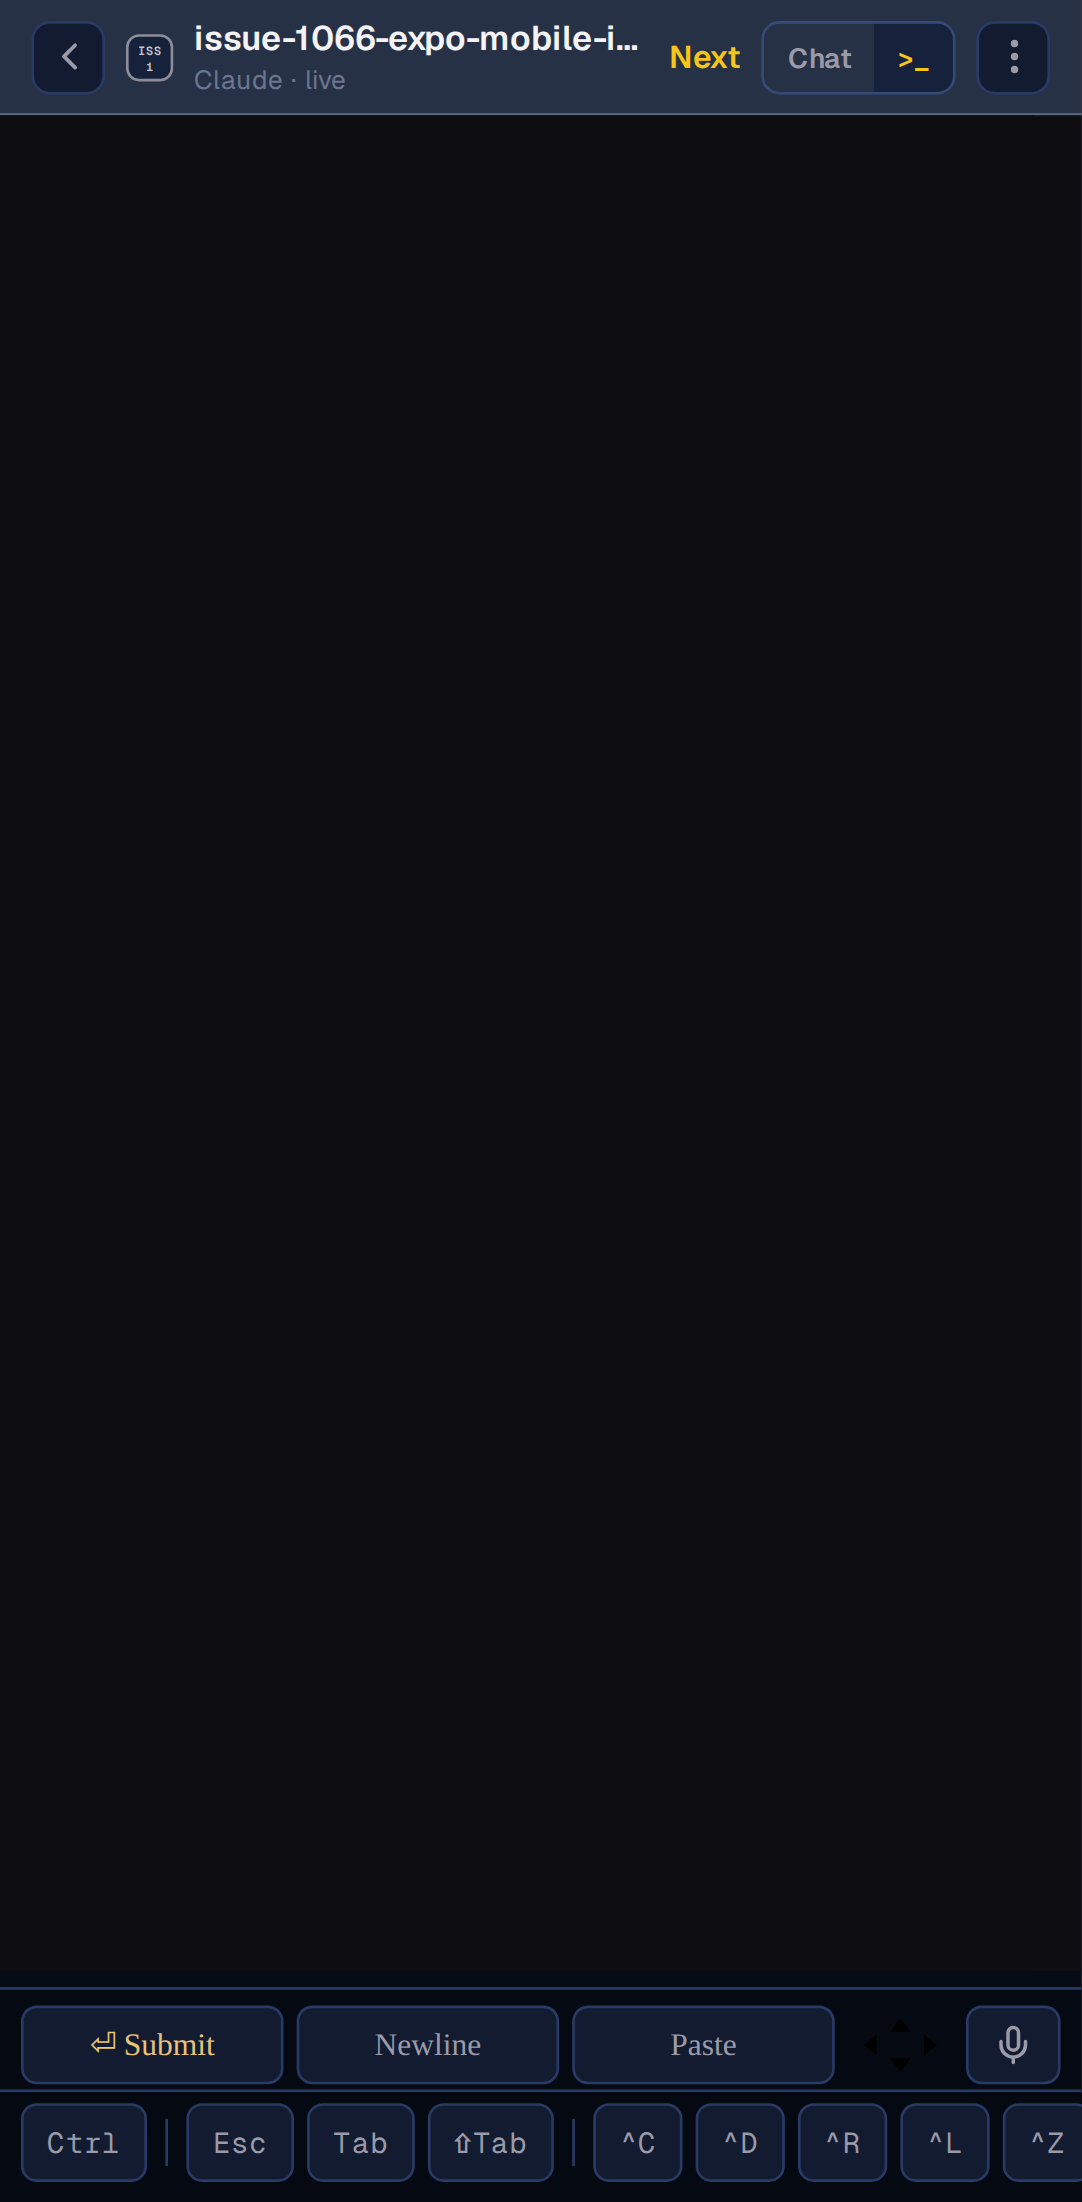
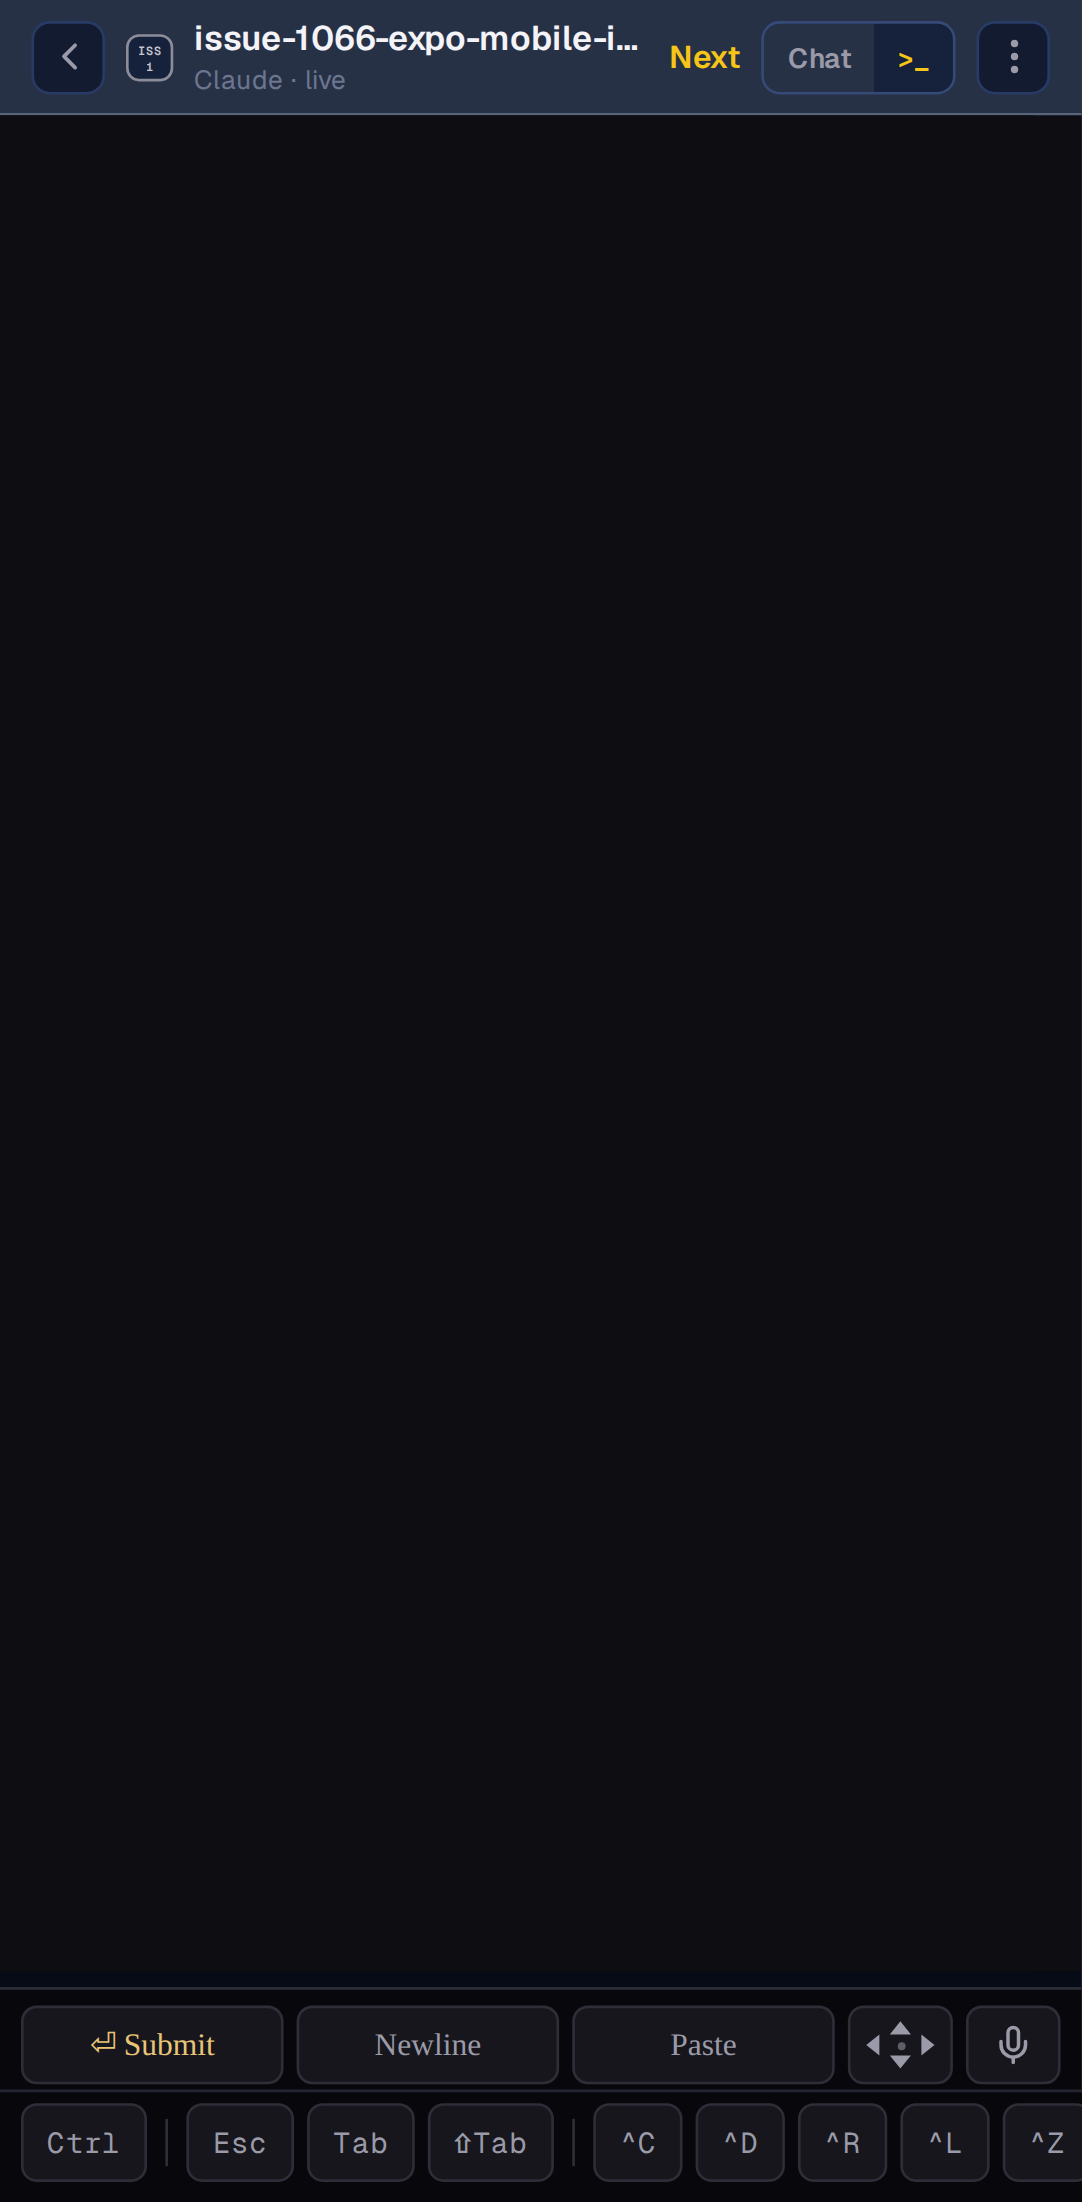
Restore historical mobile keyboard design

diff --git a/packages/terminal-client-react/src/mobile-terminal-keyboard.tsx b/packages/terminal-client-react/src/mobile-terminal-keyboard.tsx
@@ -8,6 +8,9 @@ export interface MobileTerminalKeyboardTheme {
   bar: string
   card: string
   border: string
+  secondary: string
+  hairlineSoft: string
+  hairlineBar: string
   muted: string
   accent: string
   onAccent: string
@@ -48,6 +51,9 @@ export function MobileTerminalKeyboard({
         '--mtk-bar': theme.bar,
         '--mtk-card': theme.card,
         '--mtk-border': theme.border,
+        '--mtk-secondary': theme.secondary,
+        '--mtk-hairline-soft': theme.hairlineSoft,
+        '--mtk-hairline-bar': theme.hairlineBar,
         '--mtk-muted': theme.muted,
         '--mtk-accent': theme.accent,
         '--mtk-on-accent': theme.onAccent,
@@ -94,7 +100,21 @@ export function MobileTerminalKeyboard({
         >
           Paste
         </button>
-        <ArrowSwipeKey onFire={sendKey} />
+        <ArrowSwipeKey
+          onFire={sendKey}
+          theme={
+            theme
+              ? {
+                  card: theme.card,
+                  secondary: theme.secondary,
+                  hairlineBar: theme.hairlineBar,
+                  muted: theme.muted,
+                  primary: theme.accent,
+                  border: theme.border,
+                }
+              : undefined
+          }
+        />
         {voice.supported ? (
           <button
             data-pressable
@@ -137,7 +157,7 @@ const MOBILE_TERMINAL_KEYBOARD_CSS = `
 .mobile-terminal-keyboard .toolbar {
   display: flex; flex-shrink: 0; align-items: center; gap: 5px;
   padding: 4px 8px calc(8px + (1 - var(--kb-open, 0)) * env(safe-area-inset-bottom, 0px));
-  background: var(--mtk-bar, var(--bar)); border-top: 1px solid var(--mtk-border, var(--hairline-soft));
+  background: var(--mtk-bar, var(--bar)); border-top: 1px solid var(--mtk-hairline-soft, var(--hairline-soft));
   overflow-x: auto; overflow-y: hidden; -webkit-overflow-scrolling: touch;
   overscroll-behavior: contain; touch-action: pan-x; scrollbar-width: none;
 }
@@ -145,7 +165,7 @@ const MOBILE_TERMINAL_KEYBOARD_CSS = `
 .mobile-terminal-keyboard .toolbar .key {
   flex: 0 0 auto; min-width: 32px; height: 30px; padding: 0 9px;
   display: inline-flex; align-items: center; justify-content: center;
-  background: var(--mtk-card, var(--card)); border: 1px solid var(--mtk-border, var(--hairline-bar));
+  background: var(--mtk-card, var(--card)); border: 1px solid var(--mtk-hairline-bar, var(--hairline-bar));
   border-radius: 6px; color: var(--mtk-muted, var(--muted-foreground));
   font: 11px / 1 var(--mtk-font, var(--font-mono, ui-monospace, monospace));
   font-variant-numeric: tabular-nums; cursor: pointer; user-select: none;
@@ -159,11 +179,11 @@ const MOBILE_TERMINAL_KEYBOARD_CSS = `
 }
 .mobile-terminal-keyboard .toolbar .key-sep {
   flex: 0 0 auto; align-self: center; width: 1px; height: 18px; margin: 0 2px;
-  background: var(--mtk-border, var(--hairline-bar));
+  background: var(--mtk-hairline-bar, var(--hairline-bar));
 }
 .mobile-terminal-keyboard .key-actions {
   display: flex; flex-shrink: 0; align-items: center; gap: 5px; padding: 6px 8px 2px;
-  background: var(--mtk-bar, var(--bar)); border-top: 1px solid var(--mtk-border, var(--hairline-bar));
+  background: var(--mtk-bar, var(--bar)); border-top: 1px solid var(--mtk-hairline-bar, var(--hairline-bar));
 }
 .mobile-terminal-keyboard .key-actions:not(:has(.key-mic)) { padding-right: 48px; }
 .mobile-terminal-keyboard .key-actions.kb-hidden,
@@ -171,7 +191,7 @@ const MOBILE_TERMINAL_KEYBOARD_CSS = `
 .mobile-terminal-keyboard .key-act {
   flex: 1 1 0; min-width: 0; height: 30px; display: inline-flex;
   align-items: center; justify-content: center; background: var(--mtk-card, var(--card));
-  border: 1px solid var(--mtk-border, var(--hairline-bar)); border-radius: 6px;
+  border: 1px solid var(--mtk-hairline-bar, var(--hairline-bar)); border-radius: 6px;
   color: var(--mtk-muted, var(--muted-foreground)); font: inherit; font-size: 12px;
   cursor: pointer; user-select: none; -webkit-user-select: none;
   -webkit-tap-highlight-color: transparent; touch-action: manipulation;
@@ -184,7 +204,7 @@ const MOBILE_TERMINAL_KEYBOARD_CSS = `
 .mobile-terminal-keyboard .key-mic {
   flex: 0 0 auto; width: 36px; height: 30px; display: inline-flex;
   align-items: center; justify-content: center; background: var(--mtk-card, var(--card));
-  border: 1px solid var(--mtk-border, var(--hairline-bar)); border-radius: 6px;
+  border: 1px solid var(--mtk-hairline-bar, var(--hairline-bar)); border-radius: 6px;
   color: var(--mtk-muted, var(--muted-foreground)); cursor: pointer;
   -webkit-tap-highlight-color: transparent;
 }

diff --git a/tests/e2e/browser/expo-mobile-parity.browser.e2e.ts b/tests/e2e/browser/expo-mobile-parity.browser.e2e.ts
@@ -11,6 +11,13 @@ test.setTimeout(180_000)
 
 const ARTIFACTS = resolve(import.meta.dirname, '../../../.artifacts/POD-1066')
 
+async function eventCount(page: import('@playwright/test').Page): Promise<number> {
+  const match = (await screenText(page)).match(/events=(\d+)/)
+  // The harness runs keyecho in both mode, logging each input once from raw
+  // parsing and once from Ink. Normalize the diagnostic count to terminal keys.
+  return Number(match?.[1] ?? 0) / 2
+}
+
 async function screenText(page: import('@playwright/test').Page): Promise<string> {
   return page.evaluate(
     () =>
@@ -156,20 +163,69 @@ test('Expo New Work, task agent creation, and full terminal keyboard work end to
     .toBe(true)
 
   const dpad = actions.getByRole('button', { name: /Arrow keys/ })
+  await expect(dpad).toHaveCSS('background-color', 'rgb(22, 22, 28)')
+  await expect(dpad).toHaveCSS('border-color', 'rgb(46, 46, 56)')
+  await expect(dpad.locator('.ask-g')).toHaveCount(4)
+  for (const glyph of await dpad.locator('.ask-g').all()) {
+    await expect(glyph).toHaveCSS('color', 'rgb(154, 154, 168)')
+  }
+
   const dpadBox = await dpad.boundingBox()
   expect(dpadBox).not.toBeNull()
-  if (dpadBox) {
-    await page.mouse.move(dpadBox.x + dpadBox.width / 2, dpadBox.y + dpadBox.height / 2)
-    await page.mouse.down()
-    await page.mouse.move(dpadBox.x + dpadBox.width + 24, dpadBox.y + dpadBox.height / 2, {
-      steps: 4,
-    })
-    await page.mouse.up()
-  }
+  expect(dpadBox?.width).toBeCloseTo(40, 0)
+  expect(dpadBox?.height).toBeCloseTo(30, 0)
+  if (!dpadBox) throw new Error('D-pad has no browser geometry')
+
+  const originX = dpadBox.x + dpadBox.width / 2
+  const originY = dpadBox.y + dpadBox.height / 2
+
+  // A short drag remains in the precision zone: immediate emit, slow repeat.
+  const nearStart = await eventCount(page)
+  await page.mouse.move(originX, originY)
+  await page.mouse.down()
+  await page.mouse.move(originX + 18, originY, { steps: 4 })
+  await page.waitForTimeout(1_250)
+  await page.mouse.up()
+  const nearRepeats = (await eventCount(page)) - nearStart
+  expect(nearRepeats).toBeGreaterThanOrEqual(3)
+  expect(nearRepeats).toBeLessThanOrEqual(6)
+
+  // The same gesture at the constrained screen edge accelerates toward the
+  // historical ~15 cps edge-hold rate. Keep the pointer down for visual proof.
+  const edgeStart = await eventCount(page)
+  await page.mouse.move(originX, originY)
+  await page.mouse.down()
+  const viewportWidth = page.viewportSize()?.width ?? 393
+  await page.mouse.move(Math.min(viewportWidth - 11, originX + 76), originY, { steps: 6 })
+  const overlay = page.locator('.ask-float.visible')
+  await expect(overlay).toBeVisible()
+  await expect(overlay.locator('.ask-float-bubble')).toHaveCSS('border-color', 'rgb(42, 42, 52)')
+  await expect(overlay.locator('.ask-float-bubble')).toHaveCSS('width', '68px')
+  await expect(overlay.locator('.ask-float-bubble')).toHaveCSS('height', '68px')
+  await page.waitForTimeout(1_250)
+  await page.screenshot({
+    path: resolve(ARTIFACTS, 'expo-terminal-dpad-drag.png'),
+    fullPage: true,
+  })
+  await page.mouse.up()
+  const edgeRepeats = (await eventCount(page)) - edgeStart
+  expect(edgeRepeats).toBeGreaterThan(nearRepeats + 4)
+
+  // Direction changes happen under one continuous finger drag after the
+  // original 50 ms switch gate, rather than requiring separate taps.
+  const switchStart = await eventCount(page)
+  await page.mouse.move(originX, originY)
+  await page.mouse.down()
+  await page.mouse.move(originX + 42, originY, { steps: 3 })
+  await page.mouse.move(originX, originY - 42, { steps: 3 })
+  await page.waitForTimeout(70)
+  await page.mouse.move(originX, originY - 44)
+  await page.mouse.up()
+  await expect.poll(async () => (await eventCount(page)) - switchStart).toBeGreaterThanOrEqual(2)
   await expect
     .poll(async () => {
       seen += await screenText(page)
-      return /Right|1b 5b 43/i.test(seen)
+      return /Right|1b 5b 43/i.test(seen) && /Up|1b 5b 41/i.test(seen)
     })
     .toBe(true)
 

diff --git a/packages/terminal-client-react/src/ArrowSwipeKey.tsx b/packages/terminal-client-react/src/ArrowSwipeKey.tsx
@@ -850,10 +850,20 @@ const ARROW_SWIPE_STYLES = `
 
 export interface ArrowSwipeKeyProps {
   onFire: (key: SpecialKey) => void
+  theme?: ArrowSwipeKeyTheme
+}
+
+export interface ArrowSwipeKeyTheme {
+  card: string
+  secondary: string
+  hairlineBar: string
+  muted: string
+  primary: string
+  border: string
 }
 
 /** Four-direction swipe arrow key for the mobile soft-keyboard action row. */
-export function ArrowSwipeKey({ onFire }: ArrowSwipeKeyProps): JSX.Element {
+export function ArrowSwipeKey({ onFire, theme }: ArrowSwipeKeyProps): JSX.Element {
   const keyRef = useRef<HTMLButtonElement | null>(null)
   const onFireRef = useRef(onFire)
   onFireRef.current = onFire
@@ -893,6 +903,20 @@ export function ArrowSwipeKey({ onFire }: ArrowSwipeKeyProps): JSX.Element {
     engineRef.current?.touchEnd(performance.now())
   }
 
+  // The drag overlay is portalled to document.body, so it cannot inherit the
+  // keyboard bar's CSS variables. Carry the historical key palette onto both
+  // the resting key and the overlay explicitly.
+  const themeStyle = theme
+    ? ({
+        '--card': theme.card,
+        '--secondary': theme.secondary,
+        '--hairline-bar': theme.hairlineBar,
+        '--muted-foreground': theme.muted,
+        '--primary': theme.primary,
+        '--border': theme.border,
+      } as CSSProperties)
+    : undefined
+
   return (
     <>
       <style>{ARROW_SWIPE_STYLES}</style>
@@ -901,6 +925,7 @@ export function ArrowSwipeKey({ onFire }: ArrowSwipeKeyProps): JSX.Element {
         type="button"
         ref={keyRef}
         className={visual.overlayVisible ? 'ask-key holding' : 'ask-key'}
+        style={themeStyle}
         aria-label="Arrow keys — touch and swipe toward a direction"
         onPointerDown={(e) => {
           e.preventDefault()
@@ -924,6 +949,7 @@ export function ArrowSwipeKey({ onFire }: ArrowSwipeKeyProps): JSX.Element {
           <div
             className={visual.overlayVisible ? 'ask-float visible' : 'ask-float'}
             style={{
+              ...themeStyle,
               left: visual.overlayX,
               bottom: `calc(100vh - ${visual.keyTop}px)`,
               ['--ask-neck-w' as string]: `${Math.max(22, Math.min(36, visual.keyWidth + 4))}px`,

diff --git a/apps/mobile/src/terminal/TerminalPane.web.tsx b/apps/mobile/src/terminal/TerminalPane.web.tsx
@@ -5,6 +5,22 @@ import { useMobileClient } from '../client/MobileClientProvider'
 import { Icon } from '../components/Icon'
 import { color, font, mono } from '../theme/theme'
 
+// This accessory intentionally retains the pre-redesign mobile-web palette.
+// Parity includes its contrast hierarchy, not only its controls and gestures.
+const LEGACY_MOBILE_KEYBOARD_THEME = {
+  bar: '#08080c',
+  card: '#16161c',
+  border: '#2a2a34',
+  secondary: '#25252f',
+  hairlineSoft: '#25252f',
+  hairlineBar: '#2e2e38',
+  muted: '#9a9aa8',
+  accent: '#f59e0b',
+  onAccent: '#161006',
+  danger: '#f87171',
+  fontFamily: 'GeistMono_400Regular, ui-monospace, Menlo, monospace',
+} as const
+
 /**
  * Mobile default appearance for the native agent view [POD-131]: a much
  * smaller mono size than the desktop default (13px) so agent TUI frames fit a
@@ -46,16 +62,7 @@ export function TerminalPane({ sessionId }: { sessionId: string }) {
         toolbarRef={toolbarRef}
         ready={ready}
         voiceIcon={<Icon as={Mic} size={16} color={color.textDim} />}
-        theme={{
-          bar: color.bar,
-          card: color.card,
-          border: color.hairlineBar,
-          muted: color.textDim,
-          accent: color.accent,
-          onAccent: color.onAccent,
-          danger: color.danger,
-          fontFamily: 'GeistMono_400Regular, ui-monospace, Menlo, monospace',
-        }}
+        theme={LEGACY_MOBILE_KEYBOARD_THEME}
       />
     </View>
   )
